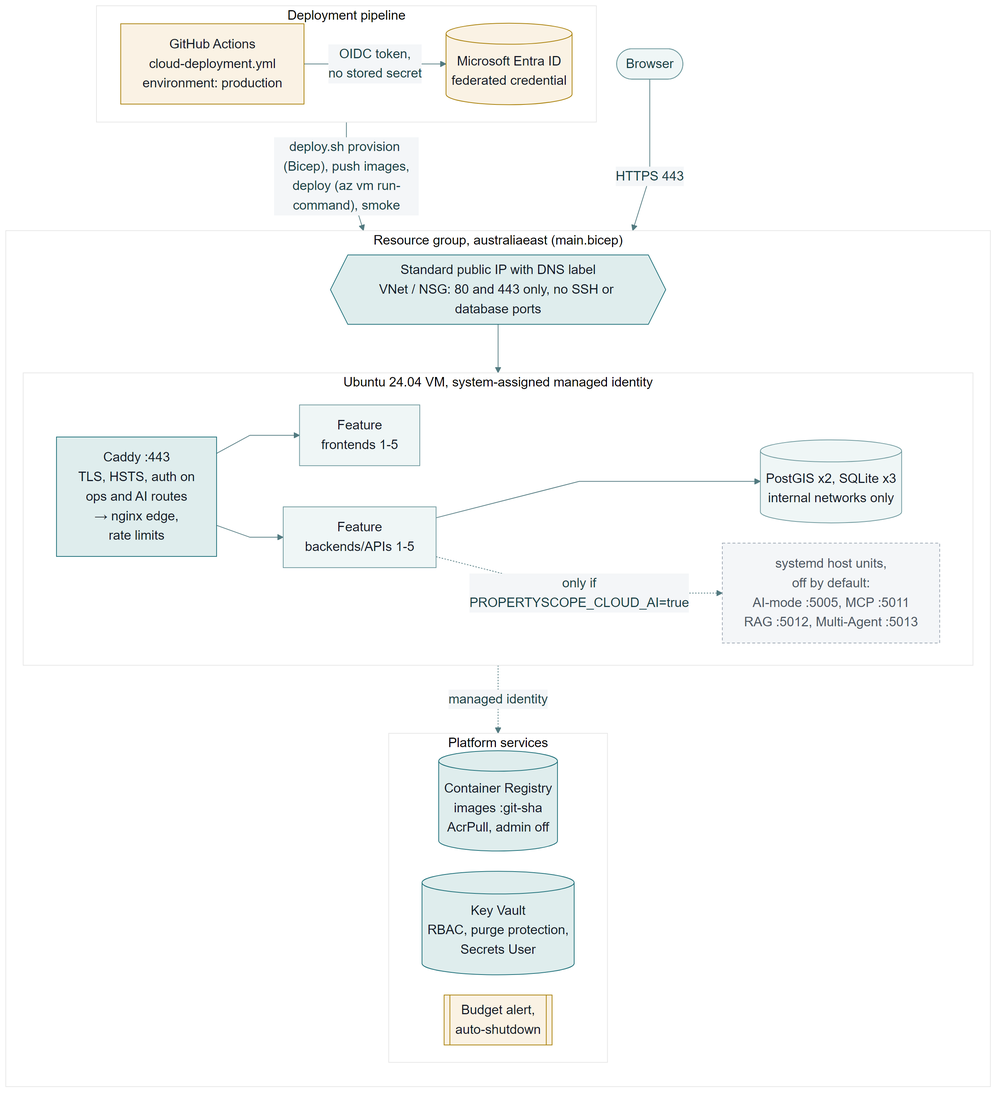
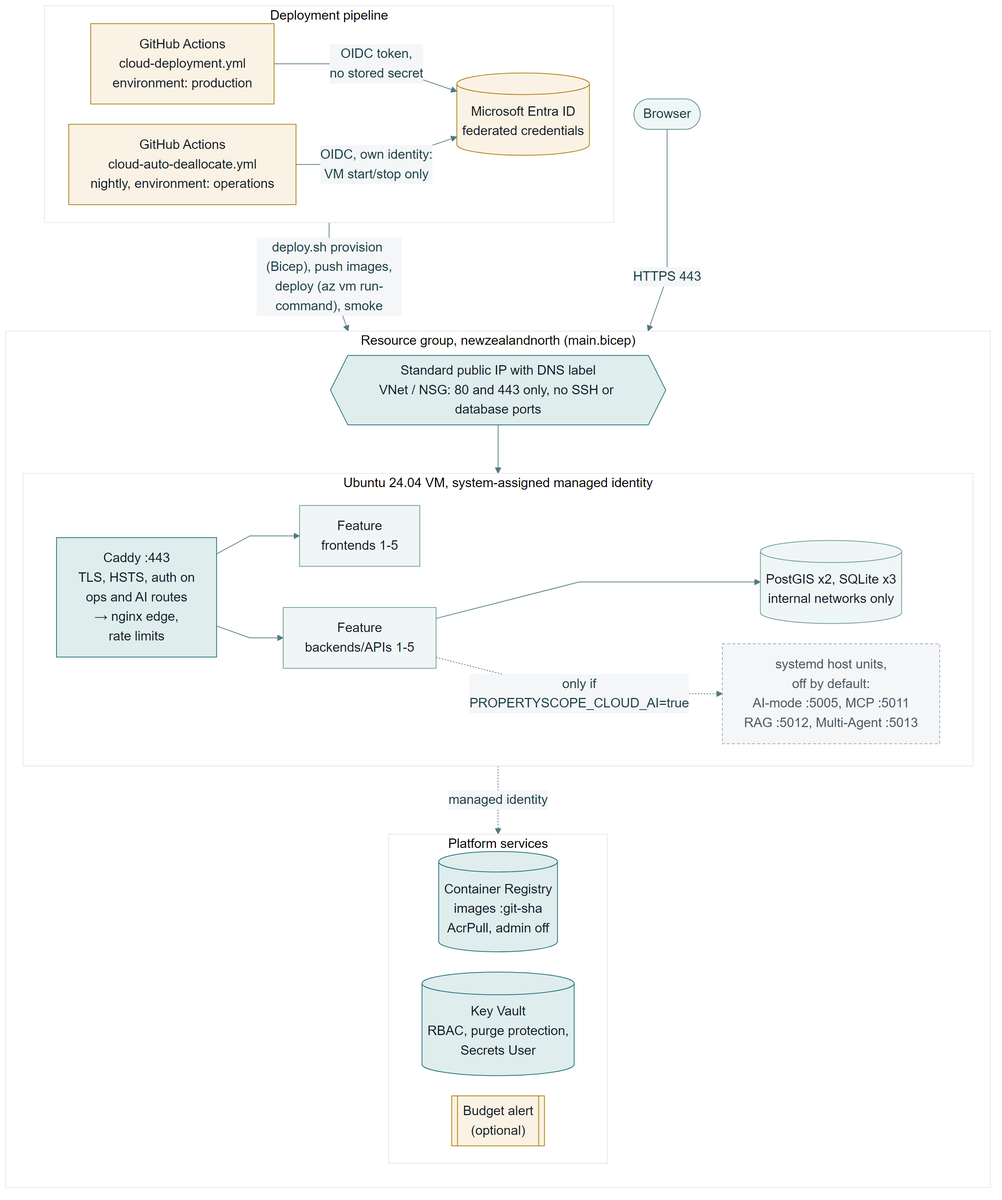
docs(azure): record the provisioned newzealandnorth deployment
Azure has run since 17 October (Azure for Students, newzealandnorth,
Standard_D4as_v4; first CI deployment run 39018442663). Update the
stale "not provisioned" status in the READMEs, ADR-048, the shared
design, the plans, the showcase runbook (URLs, spoken line, fallback,
AI-tier note for quiet mode) and the cloud evidence README. Fill the
technical report's Azure facts and commits without claiming a bonus.
Re-render the Azure reference architecture figure (newzealandnorth,
nightly deallocation with its own identity).

diff --git a/docs/release-2/showcase-runbook.md b/docs/release-2/showcase-runbook.md
@@ -120,13 +120,14 @@ time from another student's segment. Segments 9–12 can be recorded separately 
    gh run list --workflow cloud-deployment.yml --limit 3
    ```
 
-10. **Azure.** If it is provisioned, open
-    `https://propertyscope-nsw-g20.australiaeast.cloudapp.azure.com/` (the default DNS label in
-    `deployment/azure/main.bicepparam`; `uv run scripts/dev.py cloud outputs` prints the real FQDN)
-    and confirm that the home page and all five features load. Start the VM first if it was
-    deallocated (see [deployment/azure/README.md](../../deployment/azure/README.md)). **Azure is
-    pending provisioning at the time of writing (17 October).** If it is still not provisioned at
-    recording time, segment 8 uses its fallback, and the video must say so plainly.
+10. **Azure.** Open `https://propertyscope-nsw-g20.newzealandnorth.cloudapp.azure.com/`
+    (`uv run scripts/dev.py cloud outputs` prints the FQDN) and confirm that the home page and all
+    five features load. The VM is deallocated every night at 12:30 UTC, so start it first (see
+    [deployment/azure/README.md](../../deployment/azure/README.md)). Azure has been provisioned
+    since 17 October: *Azure for Students*, `newzealandnorth`, `Standard_D4as_v4`. The first CI
+    deployment is [run 39018442663](https://github.com/MattShelton04/41026ASDProject/actions/runs/39018442663)
+    (attempt 2, commit `ad2b443f`). Automatic deployments are paused (`AZURE_AUTO_DEPLOY=false`),
+    so the VM keeps the commit it was last deployed with until a manual *Cloud Deployment* run.
 11. **Record fallback clips** of segments 3, 4 and 8 during the rehearsal. Keep them ready to
     splice in.
 
@@ -153,8 +154,8 @@ time from another student's segment. Segments 9–12 can be recorded separately 
    3. AI-mode Activity history: <http://localhost:5100/operations/ai-mode/>
    4. GitHub Actions, `student-1.yml`: <https://github.com/MattShelton04/41026ASDProject/actions/workflows/student-1.yml>
    5. GitHub Actions, `cloud-deployment.yml`: <https://github.com/MattShelton04/41026ASDProject/actions/workflows/cloud-deployment.yml>
-   6. Azure home: `https://propertyscope-nsw-g20.australiaeast.cloudapp.azure.com/`
-   7. Azure Feature 1: `https://propertyscope-nsw-g20.australiaeast.cloudapp.azure.com/features/data-platform/`
+   6. Azure home: `https://propertyscope-nsw-g20.newzealandnorth.cloudapp.azure.com/`
+   7. Azure Feature 1: `https://propertyscope-nsw-g20.newzealandnorth.cloudapp.azure.com/features/data-platform/`
    8. Each student's local and Azure feature pages, for segments 9–12
 4. Close every window that could show a secret: `.env`, `.propertyscope-runtime/`, the Azure
    portal's Key Vault blade and shell history containing tokens.
@@ -170,7 +171,7 @@ time from another student's segment. Segments 9–12 can be recorded separately 
 | The Multi-Agent Server is unavailable for segment 4 | Offline in-process run with fixture tools and its own scratch state (never the running server's state directory): `uv run multi-agent-server run --deterministic --state-dir tmp/showcase/ma-state --template-path ai-services/multi-agent-server/tests/fixtures/workflow.yaml --tool-fixtures ai-services/multi-agent-server/tests/fixtures/tools.json --template example-readiness-review --input '{"record_id": "8c0d7e0e-4a3b-4c55-9a62-0d7c5f0f9a11"}' --review` ([Multi-Agent README](../../ai-services/multi-agent-server/README.md#cli)) | "This uses the example template and fixture tool results, not Feature 1" |
 | GitHub Actions is slow | Show the completed green run (`#353` or the freeze run) instead of a live one | — |
 | The pre-commit hooks are slow (mypy) | Cut the wait in the edit. Supplementary shot: `uv run pre-commit run --all-files` | — |
-| Azure is not provisioned, or the VM is down | Splice in the rehearsal clip if one exists. Otherwise show the `verify-ci` and `build-validate` jobs and the `deploy` job skipped, and say that the cloud deployment is pending | Never present a local page as Azure |
+| The Azure VM is down or unreachable (contingency only: Azure is provisioned) | Start the VM (`az vm start`) and wait a few minutes. Otherwise splice in a clip recorded earlier against the real Azure URL, or show the green Cloud Deployment run 39018442663 and its smoke step | Never present a local page as Azure |
 
 ## Script
 
@@ -302,8 +303,9 @@ Supplementary shot, if time allows: `uv run pre-commit run --all-files`. Mention
    least two passing endpoint tests for property search and for source-definition CRUD. Point at
    the `student-1-endpoint-tests` artifact.
 3. Browser tab 5: a **Cloud Deployment** run. Show the job graph: **Verify CI gate (Integration CI
-   + Student 1-5 CI)** → **Docker build and validation** → **Deploy to Azure** (skipped until Azure
-   is configured).
+   + Student 1-5 CI)** → **Docker build and validation** → **Deploy to Azure**. On run 39018442663
+   all three are green. While `AZURE_AUTO_DEPLOY=false`, a push stops after the build, and only a
+   manual run deploys.
 
 > "Every push to `main` runs each student's workflow. Ours starts Feature 1's Compose stack in
 > GitHub Actions with the AI tier off and tests two endpoint functions. The cloud deployment only
@@ -343,8 +345,8 @@ Say which owners are missing; do not hide it.
 
 ### 8 Azure (Matthew, 0:35)
 
-**Pending provisioning.** Record this segment only against the real Azure URL. Until then use
-the fallback in the table above.
+Record this segment only against the real Azure URL. Start the VM first if the nightly
+deallocation stopped it.
 
 1. Browser tab 6: the Azure home page over HTTPS. Sign in with the site-wide viewer login before
    recording, off camera, so the prompt never shows the password. Point at the padlock and the
@@ -361,7 +363,7 @@ the fallback in the table above.
 **Viewer sees:** the same frontend, APIs and databases working on Azure, with the AI tier off by
 default (R2-44). The cloud data is the seeded demonstration baseline. Say so.
 
-> "This is one Ubuntu VM in Australia East. It runs the same Compose model, with images from Azure
+> "This is one Ubuntu VM in New Zealand North, the nearest region our student subscription allows. It runs the same Compose model, with images from Azure
 > Container Registry pinned to the commit SHA, Caddy for TLS and secrets in Key Vault. AI-mode,
 > MCP, RAG and the Multi-Agent Server are off in the cloud baseline."
 
@@ -426,6 +428,10 @@ Include this only for a bonus the report claims. The rubric scores the AI tiers 
   a cited answer (B3) and a Feature 1 Readiness review reaching a human decision on Azure (B4).
   The protected routes ask for the operator credentials. Type them off camera. Turn the tier off
   again afterwards with `uv run scripts/dev.py cloud ai off`.
+  **Turn the tier on before recording, not on camera** (it prepares the RAG model and corpora).
+  Keep `AZURE_AUTO_DEPLOY=false` until the segment is recorded, and do not run *Cloud
+  Deployment*: the workflow always redeploys with the AI tier off. B1–B4 have not run on Azure
+  yet, so dry-run them first.
 
 If the video runs long with this segment, shorten segment 7 or 8, never a student segment.
 

diff --git a/docs/release-2/README.md b/docs/release-2/README.md
@@ -39,7 +39,7 @@ Evidence collected for the report goes in `evidence/`, as described in the imple
 | Local deployment report (G1) | Done: `scripts/capture_local_deployment.py`, 109 of 109 live checks, six terminal logs and a real-provider terminal Multi-Agent run. `dev.py ai serve SERVICE` runs any host service in its own terminal. RAG and MCP now log one line per request with its request ID (after the 16 October capture) | [`evidence/local/`](evidence/local/README.md) |
 | CI release gate (E4) | Done: `cloud-deployment.yml` runs `verify-ci` (Integration CI and Student 1–5 CI green for the deployed commit, `scripts/verify_release_gate.py`) and `build-validate` (every image built and the Azure Compose model validated, `scripts/validate_release_images.py`) before its `deploy` job | [`cloud-deployment.yml`](../../.github/workflows/cloud-deployment.yml), [`evidence/cloud/`](evidence/cloud/README.md) |
 | Technical report (G2) | Builder and source done; Shared and Feature 1 content written, 1,943 of 3,000 words. Students 2–5 fill their TODOs | [`docs/reports/`](../reports/README.md), `scripts/build_release2_report.py --status` |
-| Azure (E/F) | Prepared and hardened, **not provisioned**. Bicep compiles and lints cleanly (`deployment/azure/validate-iac.sh`, Integration CI job `iac-lint`) | [deployment/azure](../../deployment/azure/README.md) |
+| Azure (E/F) | **Provisioned and deployed** on 17 October: *Azure for Students*, `newzealandnorth`, `Standard_D4as_v4`. The first CI deployment, [run 39018442663](https://github.com/MattShelton04/41026ASDProject/actions/runs/39018442663) (`ad2b443f`), passed the gate, 21/21 containers, smoke 37/37 and B5. Automatic deployments are paused (`AZURE_AUTO_DEPLOY=false`); the VM is deallocated nightly. Bicep compiles and lints cleanly (`deployment/azure/validate-iac.sh`, Integration CI job `iac-lint`). Evidence is captured at the freeze | [deployment/azure](../../deployment/azure/README.md) |
 | Showcase (G) | Runbook written: segments, timings, commands and fallbacks. Students 2–5 write their own segments | [showcase-runbook.md](showcase-runbook.md) |
 | Feature 1 (F-1..F-8, F-11) | Done: workflow manifest (template v2), `/release-reviews` proxy routes with input validation, "Readiness review" UI (disabled with a visible reason where the deployment has no AI tier), demonstration-data notice, endpoint tests, terminal and UI evidence, CI evidence (run #353, 34/34 endpoint tests), report sections. F-9/F-10 wait for Azure | [student-1 README](../../student-1/README.md), [`evidence/ci/student-1.md`](evidence/ci/student-1.md) |
 
@@ -48,10 +48,10 @@ Evidence collected for the report goes in `evidence/`, as described in the imple
 | Item | Owner | Notes |
 |---|---|---|
 | Evidence refresh at the freeze | Matthew | The [ordered checklist](#evidence-refresh-at-the-freeze-on-clean-main) below |
-| Azure provisioning and deploy (R2-42..45) | Matthew | Follow the switch-on checklist in `deployment/azure/README.md` (subscription, resource group, federated credential `repo:MattShelton04/41026ASDProject:environment:production`, GitHub `production` environment and variables), then `deploy.sh provision` and `secrets`, the workflow, `ai review cloud` and `ai review decide` |
+| Azure evidence and release decision (R2-45) | Matthew | Provisioned and deployed (status table). Left: copy the accepted cloud report into `evidence/cloud/` at the freeze, run `ai review cloud` and `ai review decide` |
 | Cloud gate | Matthew | **Addressed** by the `verify-ci` and `build-validate` jobs (see the status table) |
 | Bicep compile | Matthew | **Done**: `deployment/azure/validate-iac.sh` builds and lints every template; Integration CI runs it with `--strict` in the `iac-lint` job |
-| Bonus B1–B6 | Matthew | Prepared only. Order B5, B6, B1..B4 (implementation plan §F) |
+| Bonus B1–B6 | Matthew | B5: the endpoint validation passes in CI (run 39018442663, 52 PASS). B6: re-run once the managed-identity validator fix (PR #150) is merged. B1–B4: prepared, not yet run on Azure. No bonus is claimed until its evidence is in `evidence/bonus/` |
 | Report and video (G) | All | `build_release2_report.py --status` lists each owner's TODOs; the [showcase runbook](showcase-runbook.md) holds each student's video segment |
 | Features 2–5 workflows (F-2..F-11) | Students 2–5 | Copy Feature 1: a `config/multi-agent/workflow.yaml`, proxy routes tested with `FakeMultiAgentServer`, and a panel mount (Dockerfile `COPY`, `docker-compose.dev.yml` bind mount, empty `frontend/multi-agent/README.md`). Endpoint test recipe: `shared/testkit/README.md`; then `collect_ci_evidence.py --student N`, and `multi-agent-server export <run> --out docs/release-2/evidence/multi-agent/student-N/<run> --server` |
 

diff --git a/deployment/azure/README.md b/deployment/azure/README.md
@@ -5,8 +5,13 @@ production Compose wiring, the TLS edge, systemd units for the optional cloud AI
 operations script and the bonus security validations. The design and its trade-offs are recorded
 in [ADR-048](../../docs/architecture/decisions/ADR-048-azure-vm-hosting.md).
 
-**Status:** prepared and validated locally. Nothing has been provisioned yet. Once a subscription
-is chosen, deployment is a configuration step: work through the
+**Status:** provisioned and deployed since 17 October 2026. The deployment runs on an *Azure for
+Students* subscription in `newzealandnorth` (the Students region policy blocks `australiaeast`) on a
+`Standard_D4as_v4` VM (no DSv5 quota), with `AZURE_AUTO_SHUTDOWN_TIME=off` and a user-assigned
+managed identity as the GitHub deployer (the tenant blocks app registrations). The URL is
+<https://propertyscope-nsw-g20.newzealandnorth.cloudapp.azure.com>, behind the site-wide login. The first successful CI deployment is
+[run 39018442663](https://github.com/MattShelton04/41026ASDProject/actions/runs/39018442663), attempt 2. Automatic deployments are paused (`AZURE_AUTO_DEPLOY=false`).
+The VM is deallocated every night. For a new subscription, work through the
 [switch-on checklist](#switch-on-checklist) in order.
 
 ## Architecture
@@ -18,14 +23,14 @@ flowchart LR
     ci -- "completed (workflow_run)<br/>or manual dispatch" --> gate[verify-ci job<br/>Integration CI green on the SHA,<br/>latest Student 1-5 CI green at SHA or ancestor]
     sci -. "run history (gh api)" .-> gate
     gate -- pass --> build[build-validate job<br/>build every image,<br/>validate Azure Compose models]
-    build -- "pass; skipped until<br/>AZURE_SUBSCRIPTION_ID is set" --> cd[deploy job<br/>environment: production<br/>re-checks the gate]
+    build -- "pass; skipped until AZURE_SUBSCRIPTION_ID is set,<br/>and on pushes while AZURE_AUTO_DEPLOY=false" --> cd[deploy job<br/>environment: production<br/>re-checks the gate]
     cd -- OIDC federated credential --> entra[(Microsoft Entra ID)]
     cd -- "deploy.sh push<br/>images :git-sha" --> acr[(Azure Container Registry<br/>admin user off)]
     cd -- "deploy.sh provision<br/>Bicep" --> rg
     cd -- "deploy.sh deploy<br/>az vm run-command" --> vm
     cd -- "deploy.sh smoke" --> pip
 
-    subgraph rg[Resource group, australiaeast]
+    subgraph rg[Resource group, newzealandnorth]
         pip[Standard public IP<br/>DNS label] --> nsg{{NSG: 80/443 only, 443 optionally allowlisted<br/>no SSH, no DB ports}}
         nsg --> vm
         kv[(Key Vault<br/>RBAC, purge protection,<br/>firewall)]
@@ -75,7 +80,7 @@ values below is a secret.
 ```bash
 SUBSCRIPTION_ID=<subscription-guid>
 RG=rg-propertyscope-prod
-LOCATION=australiaeast
+LOCATION=newzealandnorth   # this deployment; the template default is australiaeast
 REPO=MattShelton04/41026ASDProject
 az login
 az account set --subscription "$SUBSCRIPTION_ID"
@@ -214,6 +219,9 @@ az account set --subscription "$SUBSCRIPTION_ID"
    | `AZURE_AUTO_SHUTDOWN_TIME` | daily shutdown as HHmm, AUS Eastern time; default `2330`. `off` where DevTestLab schedules are not offered (for example `newzealandnorth`) | optional |
    | `AZURE_AUTO_DEPLOY` | `false` starts a quiet period: pushes to `main` no longer deploy, and only a manual *Run workflow* does (after the same CI gate). Unset or `true` deploys every green push | optional |
    | `AZURE_SUBSCRIPTION_ID` | subscription GUID. The workflow skips until this is set | yes, last |
+
+   This deployment sets `AZURE_LOCATION=newzealandnorth`, `AZURE_VM_SIZE=Standard_D4as_v4` and
+   `AZURE_AUTO_SHUTDOWN_TIME=off`. The defaults above are the template's.
 
    **Two environment secrets, and no cloud credential.** Add the team address for certificate
    notices as the `production` *environment* secret `PROPERTYSCOPE_ACME_EMAIL`, not as a
@@ -429,7 +437,8 @@ subscription.
 
 | Resource | Approximate cost |
 |---|---|
-| `Standard_D4s_v5` VM | about US$0.25 per running hour (about US$180 per month if never stopped) |
+| `Standard_D4s_v5` VM (template default) | about US$0.25 per running hour (about US$180 per month if never stopped) |
+| `Standard_D4as_v4` VM (this deployment, `newzealandnorth`) | about US$0.23 per running hour |
 | 128 GiB Premium SSD OS disk | about US$20 per month (charged while deallocated) |
 | ACR Basic | about US$5 per month |
 | Standard static public IP | about US$4 per month |

diff --git a/docs/reports/release-2-technical-report.md b/docs/reports/release-2-technical-report.md
@@ -126,7 +126,10 @@ student workflows have passed for that commit, and `build-validate` builds every
 validates the Azure Compose model. Only then does `deploy` run the reusable
 [`deploy.sh`](../../deployment/azure/README.md) steps in the protected `production` environment.
 
-[[TODO: Matthew Shelton | Azure is prepared but not provisioned. After the first deployment, state the subscription, region and VM size used]]
+The deployment runs on an *Azure for Students* subscription in `newzealandnorth`, because the
+subscription's region policy blocks `australiaeast`, on a `Standard_D4as_v4` VM (4 vCPU, 16 GiB;
+the subscription has no DSv5 quota). The first deployment, [run 39018442663](https://github.com/MattShelton04/41026ASDProject/actions/runs/39018442663), passed the
+gate, started 21 of 21 containers and passed the smoke test with the AI tier off.
 
 ## 5 Pre-commit security testing
 
@@ -291,8 +294,11 @@ Section 12 lists each student's commits.
 | 15 Oct | [d449a43](https://github.com/MattShelton04/41026ASDProject/commit/d449a43) | CI evidence collection, stack reliability and F1 improvements |
 | 16 Oct | [07b1c81](https://github.com/MattShelton04/41026ASDProject/commit/07b1c81) | Local deployment evidence and report builder |
 | 16 Oct | [72f3272](https://github.com/MattShelton04/41026ASDProject/commit/72f3272) | Parallel quality gate |
+| 17 Oct | [fdc5111](https://github.com/MattShelton04/41026ASDProject/commit/fdc5111) | CI release gate, Azure hardening and rehearsal, owner-attributed reviews, showcase runbook |
+| 17 Oct | [ad2b443](https://github.com/MattShelton04/41026ASDProject/commit/ad2b443) | First Azure switch-on in `newzealandnorth` |
+| 17 Oct | [71764a5](https://github.com/MattShelton04/41026ASDProject/commit/71764a5) | Git Bash-safe Azure scripts, automatic-deployment toggle |
 
-[[TODO: Matthew Shelton | Add the merged commit of the pending Wave 1/2 PR (CI release gate, Azure hardening, owner-attributed reviews, RAG/MCP request logging, showcase runbook) and the Azure deployment commit]]
+[[TODO: Matthew Shelton | Add the merged commit of the security audit fixes (PR #150)]]
 
 ### Student 2 Burhan Naeem
 
@@ -312,8 +318,8 @@ Section 12 lists each student's commits.
 
 ## 13 Bonus evidence
 
-No bonus is claimed yet. Endpoint (B5) and data (B6) security controls, their validation scripts
-and the B1–B4 AI units are prepared in `deployment/azure/`, but none has run on Azure.
+No bonus is claimed yet. The endpoint security validation (B5) passed on Azure in the first CI
+deployment. The data security validation (B6) and the B1–B4 AI tiers have not yet run there.
 
 [[TODO: Matthew Shelton | For each bonus claimed, link its validation output under evidence/bonus/; otherwise keep "No bonus is claimed"]]
 

diff --git a/docs/architecture/shared-platform-design.md b/docs/architecture/shared-platform-design.md
@@ -4,7 +4,7 @@
 
 | Field | Value |
 |---|---|
-| Status | Living architecture; Release 2 shared runtime: AI-mode, MCP, RAG and the Multi-Agent Server as host processes (ADR-046, ADR-047), and the prepared, not yet provisioned, Azure VM deployment (ADR-048) |
+| Status | Living architecture; Release 2 shared runtime: AI-mode, MCP, RAG and the Multi-Agent Server as host processes (ADR-046, ADR-047), and the Azure VM deployment (ADR-048), provisioned on 17 October 2026 in `newzealandnorth` |
 | Last verified | Source/configuration reviewed 17 October 2026; live release evidence tracked separately in `docs/release-2/evidence/` |
 | Scope | Shared services and integration contracts across Releases 0-2 |
 | Primary audience | Project team, tutor, reviewers, and future maintainers |
@@ -1312,8 +1312,10 @@ one-time setup and the operations are in [deployment/azure/README.md](../../depl
 - Bicep in `deployment/azure/` (resource-group scope) defines ACR, a VNet/NSG admitting only
   80/443 (443 optionally limited to listed sources; 80 stays open for certificates), a Standard
   public IP with a DNS label, the VM with a system-assigned identity
-  (`AcrPull`, `Key Vault Secrets User`), an RBAC-mode Key Vault with purge protection, an
-  auto-shutdown schedule and a budget.
+  (`AcrPull`, `Key Vault Secrets User`), an RBAC-mode Key Vault with purge protection, an optional
+  auto-shutdown schedule and an optional budget. Where DevTestLab schedules are not offered
+  (`newzealandnorth`, the deployed region), the nightly *Cloud Auto-Deallocate* workflow stops the
+  VM instead.
 - Only the Caddy TLS edge publishes ports. By default it asks for a shared viewer login on every
   route except `/healthz`, and always for the operator login on operations and AI routes. It
   proxies to the unchanged nginx edge, which gains a production-only rate-limit include. Database tiers sit on internal per-feature networks.

diff --git a/docs/architecture/decisions/ADR-048-azure-vm-hosting.md b/docs/architecture/decisions/ADR-048-azure-vm-hosting.md
@@ -1,6 +1,7 @@
 # ADR-048: Host the Release 2 cloud deployment on one Azure VM, with the AI tier behind a flag
 
-- Status: Accepted (infrastructure prepared; not yet provisioned)
+- Status: Accepted (provisioned and deployed 17 October 2026 in `newzealandnorth`, see
+  [Amendments](#amendments))
 - Date: 9 October 2026 (amended 17 October 2026, see [Amendments](#amendments))
 - Owner: Shared platform (Matthew Shelton)
 - Reaffirms: [ADR-046](ADR-046-non-containerised-ai-tier.md) (AI services are host processes)
@@ -284,3 +285,14 @@ deployer identity, and what that identity can then do. These changes followed:
   owner and keeps zero required approvals. Secret scanning, push protection and Dependabot
   alerts are on, Actions must be pinned to full commit SHAs, and fork pull requests from any
   external contributor need approval before workflows run.
+
+**17 October 2026, provisioned and deployed.** The decisions above still describe the template's
+defaults (`australiaeast`, `Standard_D4s_v5`). The live deployment differs only in its settings:
+*Azure for Students*, `newzealandnorth` (the region policy blocks `australiaeast`),
+`Standard_D4as_v4` (no DSv5 quota, about US$0.23 per running hour), `AZURE_AUTO_SHUTDOWN_TIME=off`
+with the nightly *Cloud Auto-Deallocate* workflow, and a user-assigned managed identity with
+immutable OIDC subjects as the GitHub deployer. The first successful *Cloud Deployment*, run
+39018442663 (attempt 2, commit `ad2b443f`), passed the gate, ran 21 of 21 containers, passed the
+smoke test 37 of 37 with the AI tier off, and passed the B5 validation with 52 checks.
+`AZURE_AUTO_DEPLOY=false` now pauses automatic deployments for a quiet period, and a manual run
+still deploys after the same gate. The cloud AI tier (B1–B4) has not run on Azure yet.

diff --git a/README.md b/README.md
@@ -12,8 +12,9 @@ The tutor-approved project uses Python 3.12 and a `uv` monorepo. Frontends, feat
 owned databases run in Docker Compose. AI-mode, its Plan/Act/Observe/Adapt loop, MCP, RAG and the
 Multi-Agent Server run as host processes. Matthew reconfirmed the tutor's OpenAI and
 PostgreSQL/PostGIS approval on 3 October 2026. The Azure deployment is one VM behind a Caddy TLS
-edge, with images in ACR, secrets in Key Vault and the AI tier off by default; it is prepared but
-not yet provisioned. Feature 1's release review page runs its Planner → Worker → Reviewer → human
+edge, with images in ACR, secrets in Key Vault and the AI tier off by default. It has been
+provisioned since 17 October 2026 (*Azure for Students*, `newzealandnorth`), and GitHub Actions
+deploys it after CI passes. Feature 1's release review page runs its Planner → Worker → Reviewer → human
 readiness review through the shared [multi-agent panel](shared/frontend/multi-agent/README.md);
 the other features adopt the same panel and proxy contract.
 

diff --git a/docs/release-2/implementation-plan.md b/docs/release-2/implementation-plan.md
@@ -85,7 +85,10 @@ docs/release-2/evidence/
 ## Open decisions (owner)
 
 - Which member's Azure subscription and credit to use, and who has deploy rights (Matthew).
-- Public DNS label for the VM and the region (default `australiaeast`).
+- Public DNS label for the VM and the region (default `australiaeast`). *Resolved 17 October:*
+  `propertyscope-nsw-g20` in `newzealandnorth`, because the *Azure for Students* region policy
+  blocks `australiaeast`. Pushes deploy automatically unless the repository variable
+  `AZURE_AUTO_DEPLOY` is `false` (a quiet period); a manual run always deploys.
 - Whether the tutor accepts non-cumulative bonus combinations.
 
 Closed:

diff --git a/docs/release-2/review-modes.md b/docs/release-2/review-modes.md
@@ -227,7 +227,7 @@ The smoke contract (`schema_version` 2):
 ```json
 {
   "schema_version": 2, "tool": "scripts/cloud_smoke.py",
-  "base_url": "https://propertyscope-nsw-g20.australiaeast.cloudapp.azure.com",
+  "base_url": "https://propertyscope-nsw-g20.newzealandnorth.cloudapp.azure.com",
   "commit_sha": "<40 hex>", "image_tag": "<40 hex>", "registry": "<acr>.azurecr.io",
   "images": {"f1-backend": "<acr>.azurecr.io/propertyscope/f1-backend:<tag>"},
   "images_source": "docker-compose.azure.yml with IMAGE_TAG",

diff --git a/docs/release-2/parts/shared.md b/docs/release-2/parts/shared.md
@@ -128,5 +128,6 @@ factory, a host process on `:5013`, no Dockerfile.
   the new packages.
 - A terminal workflow and a UI workflow (Feature 1) both reach a human decision locally.
 - A push to `main` deploys to Azure automatically, and the public smoke test passes with the AI
-  tier off.
+  tier off. `AZURE_AUTO_DEPLOY=false` pauses the automatic deployments for a quiet period, and a
+  manual run still deploys after the same gate.
 - All three review modes produce a report and a validation log from real evidence.
